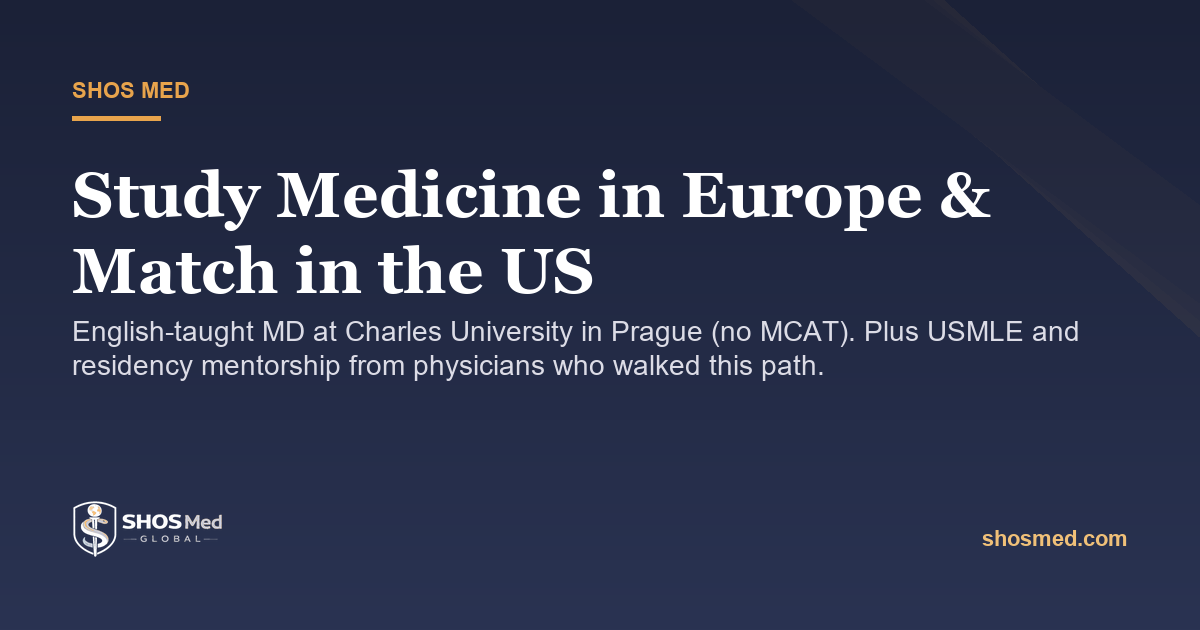
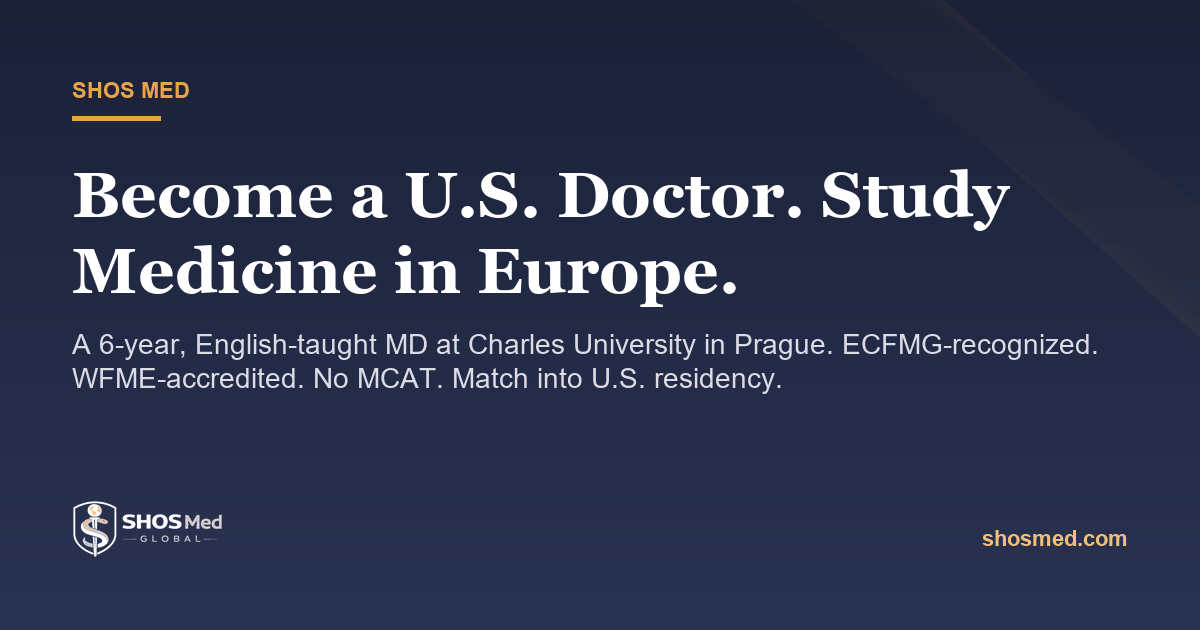
OG home card: regenerate with new "Become a U.S. Doctor" copy
Old card text:
  Title:    "Study Medicine in Europe & Match in the US"
  Subtitle: "English-taught MD at Charles University in Prague (no MCAT).
             Plus USMLE and residency mentorship from physicians who
             walked this path."

New card text (matches the new homepage H1 + share-preview metadata):
  Title:    "Become a U.S. Doctor. Study Medicine in Europe."
  Subtitle: "A 6-year, English-taught MD at Charles University in Prague.
             ECFMG-recognized. WFME-accredited. No MCAT. Match into
             U.S. residency."

scripts/generate_og_cards.py: updated the "home" entry only — other 12
cards (program pages, blog posts) re-rendered identically.
assets/og/home.png: regenerated 1200x630 PNG. Same filename so the
existing og:image meta tag continues to work; old image is overwritten
in place (effectively deleted).

Social platforms cache OG images aggressively. To force a refresh:
  - LinkedIn: linkedin.com/post-inspector → paste shosmed.com → Inspect
  - FB / IG:  developers.facebook.com/tools/debug → Scrape Again
  - Twitter:  cards-dev.twitter.com/validator
  - WhatsApp: 24-48h auto-expire, or send to yourself with ?v=2 query

Changed region(s): [[0.0617, 0.2714, 0.8325, 0.4825], [0.0617, 0.5127, 0.925, 0.6333]]

diff --git a/scripts/generate_og_cards.py b/scripts/generate_og_cards.py
@@ -148,8 +148,8 @@ CARDS = [
     {
         "slug": "home",
         "eyebrow": "SHOS Med",
-        "title": "Study Medicine in Europe & Match in the US",
-        "subtitle": "English-taught MD at Charles University in Prague (no MCAT). Plus USMLE and residency mentorship from physicians who walked this path.",
+        "title": "Become a U.S. Doctor. Study Medicine in Europe.",
+        "subtitle": "A 6-year, English-taught MD at Charles University in Prague. ECFMG-recognized. WFME-accredited. No MCAT. Match into U.S. residency.",
     },
     {
         "slug": "applicants",
